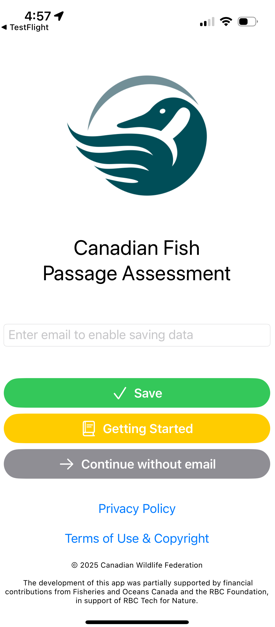
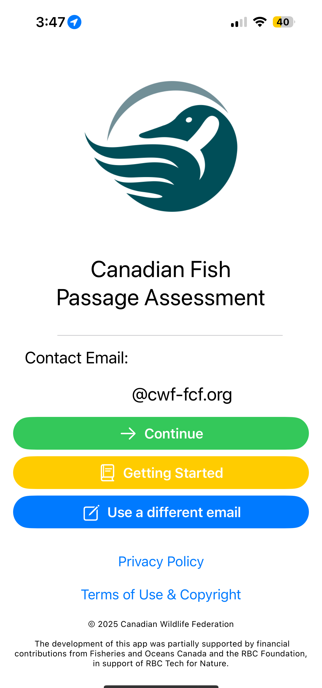
added ios link, updated photo, grammar
added ios link to main page, updated email photo and updated some grammar

diff --git a/docs/source/docs_user/docs_user_app/ios_user_guide.rst b/docs/source/docs_user/docs_user_app/ios_user_guide.rst
@@ -151,7 +151,7 @@ You’ll also notice a small black crosshair at the center of the screen (see im
 #. Tap and drag the screen until the crosshair is targeted at the barrier point of interest.
 #. Click on a barrier point of interest and the crosshair will automatically snap to that feature. 
 
-Once the cursor is aligned with a barrier point, a information box will appear at the bottom of the screen. This box displays the barrier ID, structure type, and passability status, along with an ‘Assess this Feature’ button.
+Once the cursor is aligned with a barrier point, an information box will appear at the bottom of the screen. This box displays the barrier ID, structure type, and passability status, along with an ‘Assess this Feature’ button.
 
 Tapping the ‘Assess this Feature’ button opens a form that allows you to assess the selected feature. For detailed instructions on completing an assessment, see the next section :ref:`Assessing Barriers <assessing-barriers>`.
 
@@ -251,17 +251,17 @@ Each question in the assessment form includes an information icon next to it. Ta
 
 **Saving and Uploading Barrier Assessment Submissions**
 
-Once you’ve completed all the questions in the assessment form, you’re ready to save or upload your assessment. At the bottom of the form, you’ll see four buttons: 'Save for Later', 'Upload' 'Delete' and 'Cancel'. 
+Once you’ve completed all the questions in the assessment form, you’re ready to save or upload your assessment. At the bottom of the form, you’ll see four buttons: 'Save for Later', 'Upload', 'Delete' and 'Cancel'. 
 
 .. figure:: img/ios_bottom.png
     :align: center
     :width: 40%
 
-The ‘Cancel’ button allows you to exit the assessment form. The "Cancel" button will only appear after you have answered the first two questions in the form. Once these questions have been answered, the remaining assessment questions will appear, along with the "Cancel" button of the screen. If you choose to cancel the assessment at this stage, the assessment will be autosaved. 
+The ‘Cancel’ button allows you to exit the assessment form. The "Cancel" button will only appear after you have answered the first two questions in the form. Once these questions have been answered, the remaining assessment questions will appear, along with the 'Cancel' button of the screen. If you choose to cancel the assessment at this stage, the assessment will be autosaved. 
 
 The 'Delete' button allows you to delete the entire assessment form. You can only do this for features that have not yet been uploaded. 
 
-The "Save for Later" button allows you to save the information you've entered into the assessment form so you can return to it and manually upload it later. This button does not upload the information to the central database. Once an assessment is saved, the associated feature point will appear on the map with a yellow halo around it, indicating that it has been stored locally. You can reopen the form for a saved feature at any time to continue editing or complete and upload it. The "Save for Later" function works whether you are connected to Wi-Fi, using cellular data, or even if you are offline with no service. 
+The 'Save for Later' button allows you to save the information you've entered into the assessment form so you can return to it and manually upload it later. This button does not upload the information to the central database. Once an assessment is saved, the associated feature point will appear on the map with a yellow halo around it, indicating that it has been stored locally. You can reopen the form for a saved feature at any time to continue editing or complete and upload it. The 'Save for Later' function works whether you are connected to Wi-Fi, using cellular data, or even if you are offline with no service. 
 
 .. figure:: img/ios_save.png
     :align: center

diff --git a/docs/source/docs_user/docs_user_app/android_user_guide.rst b/docs/source/docs_user/docs_user_app/android_user_guide.rst
@@ -129,7 +129,7 @@ You’ll also notice a small black crosshair at the center of the screen (see im
     :align: center
     :width: 25%
 
-Once the cursor is aligned with a barrier point, a information box will appear at the bottom of the screen. This box displays the barrier ID, structure type, and passability status, along with an ‘ASSESS THIS FEATURE’ button.
+Once the cursor is aligned with a barrier point, an information box will appear at the bottom of the screen. This box displays the barrier ID, structure type, and passability status, along with an ‘ASSESS THIS FEATURE’ button.
 
 Tapping the ‘ASSESS THIS FEATURE’ button opens a form that allows you to assess the selected feature. For detailed instructions on completing an assessment, see the next section :ref:`Assessing Barriers <assessing-barriers-android>`. 
 
@@ -157,7 +157,7 @@ Tapping the ‘ASSESS THIS FEATURE’ button opens a form where you can complete
 
 To assess the selected barrier, tap the ‘ASSESS THIS FEATURE’ button. This will open the rapid assessment form.
 
-The first question will ask, “This structure is currently identified as (either a dam or a stream crossing), is this correct?
+The first question will ask, “This structure is currently identified as (either a dam or a stream crossing), is this correct?""
 
 - If the default structure type is correct, simply tap ‘Yes’ to proceed.
 - If the structure type is incorrect, then tap ‘No/Unsure’.

diff --git a/docs/source/docs_user/docs_user_app.rst b/docs/source/docs_user/docs_user_app.rst
@@ -15,7 +15,7 @@ CANFISHPASS App
 
 The Canadian Wildlife Federation (CWF) has developed the Canadian Fish Passage Assessment (CANFISHPASS) mobile app to help improve the Canadian Aquatic Barriers Database (CABD)—Canada’s centralized, open-access resource for data on aquatic structures like dams, stream crossings, waterfalls, and fishways—and engage Canadians and local communities in action to help support freshwater conservation and restoration. 
 
-The CABD app can be downloaded for `Android <https://play.google.com/store/apps/details?id=com.foundry.cabdapp>`_ or iOS devices. 
+The CABD app can be downloaded for `Android <https://play.google.com/store/apps/details?id=com.foundry.cabdapp>`_ or `iOS <https://apps.apple.com/ca/app/canfishpass/id6749703687>`_ devices. 
 
 .. note::
     
